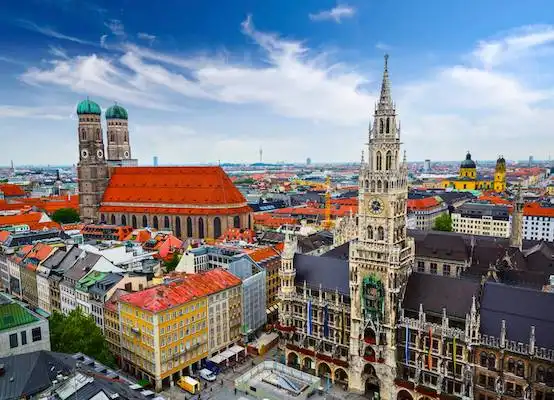
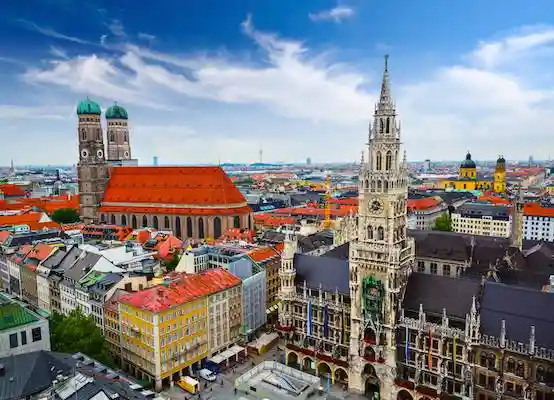
Angular stats, Removed zonejs, Compress webp more

diff --git a/apps/website-angular/src/app/app.config.ts b/apps/website-angular/src/app/app.config.ts
@@ -1,14 +1,13 @@
 import {
   ApplicationConfig,
-  provideZoneChangeDetection,
-  CUSTOM_ELEMENTS_SCHEMA,
+  provideExperimentalZonelessChangeDetection,
 } from '@angular/core';
 import { provideRouter } from '@angular/router';
 import { routes } from './app.routes';
 
 export const appConfig: ApplicationConfig = {
   providers: [
-    provideZoneChangeDetection({ eventCoalescing: true }),
+    provideExperimentalZonelessChangeDetection(),
     provideRouter(routes),
   ],
 };

diff --git a/scripts/convert-assets-to-webp.js b/scripts/convert-assets-to-webp.js
@@ -25,7 +25,7 @@ fs.readdirSync(inputDir).forEach((file) => {
   const outputPath = path.join(outputDir, path.parse(file).name + '.webp');
 
   sharp(inputPath)
-    .webp({ quality: 50 })
+    .webp({ quality: 25 })
     .toFile(outputPath)
     .then(() => console.log(`Converted: ${file}`))
     .catch((err) => console.error(`Error processing ${file}:`, err));
